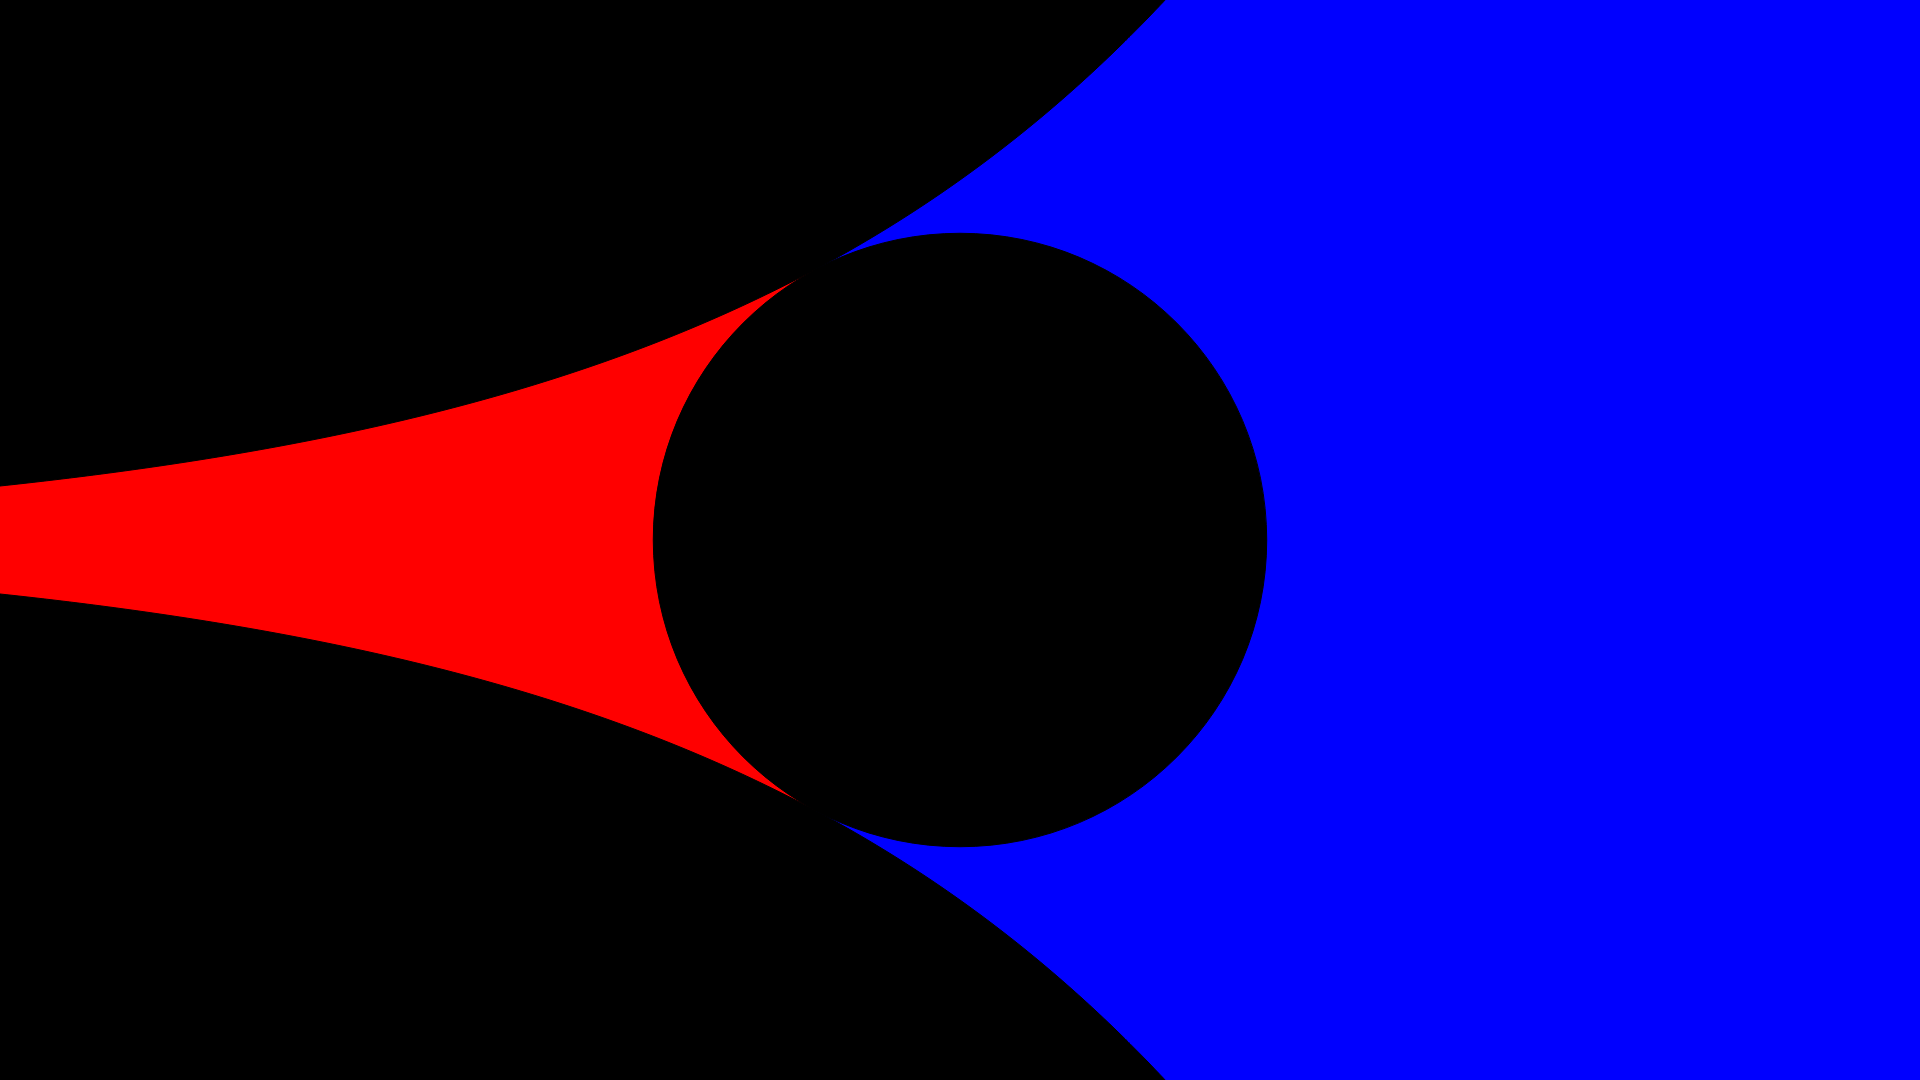
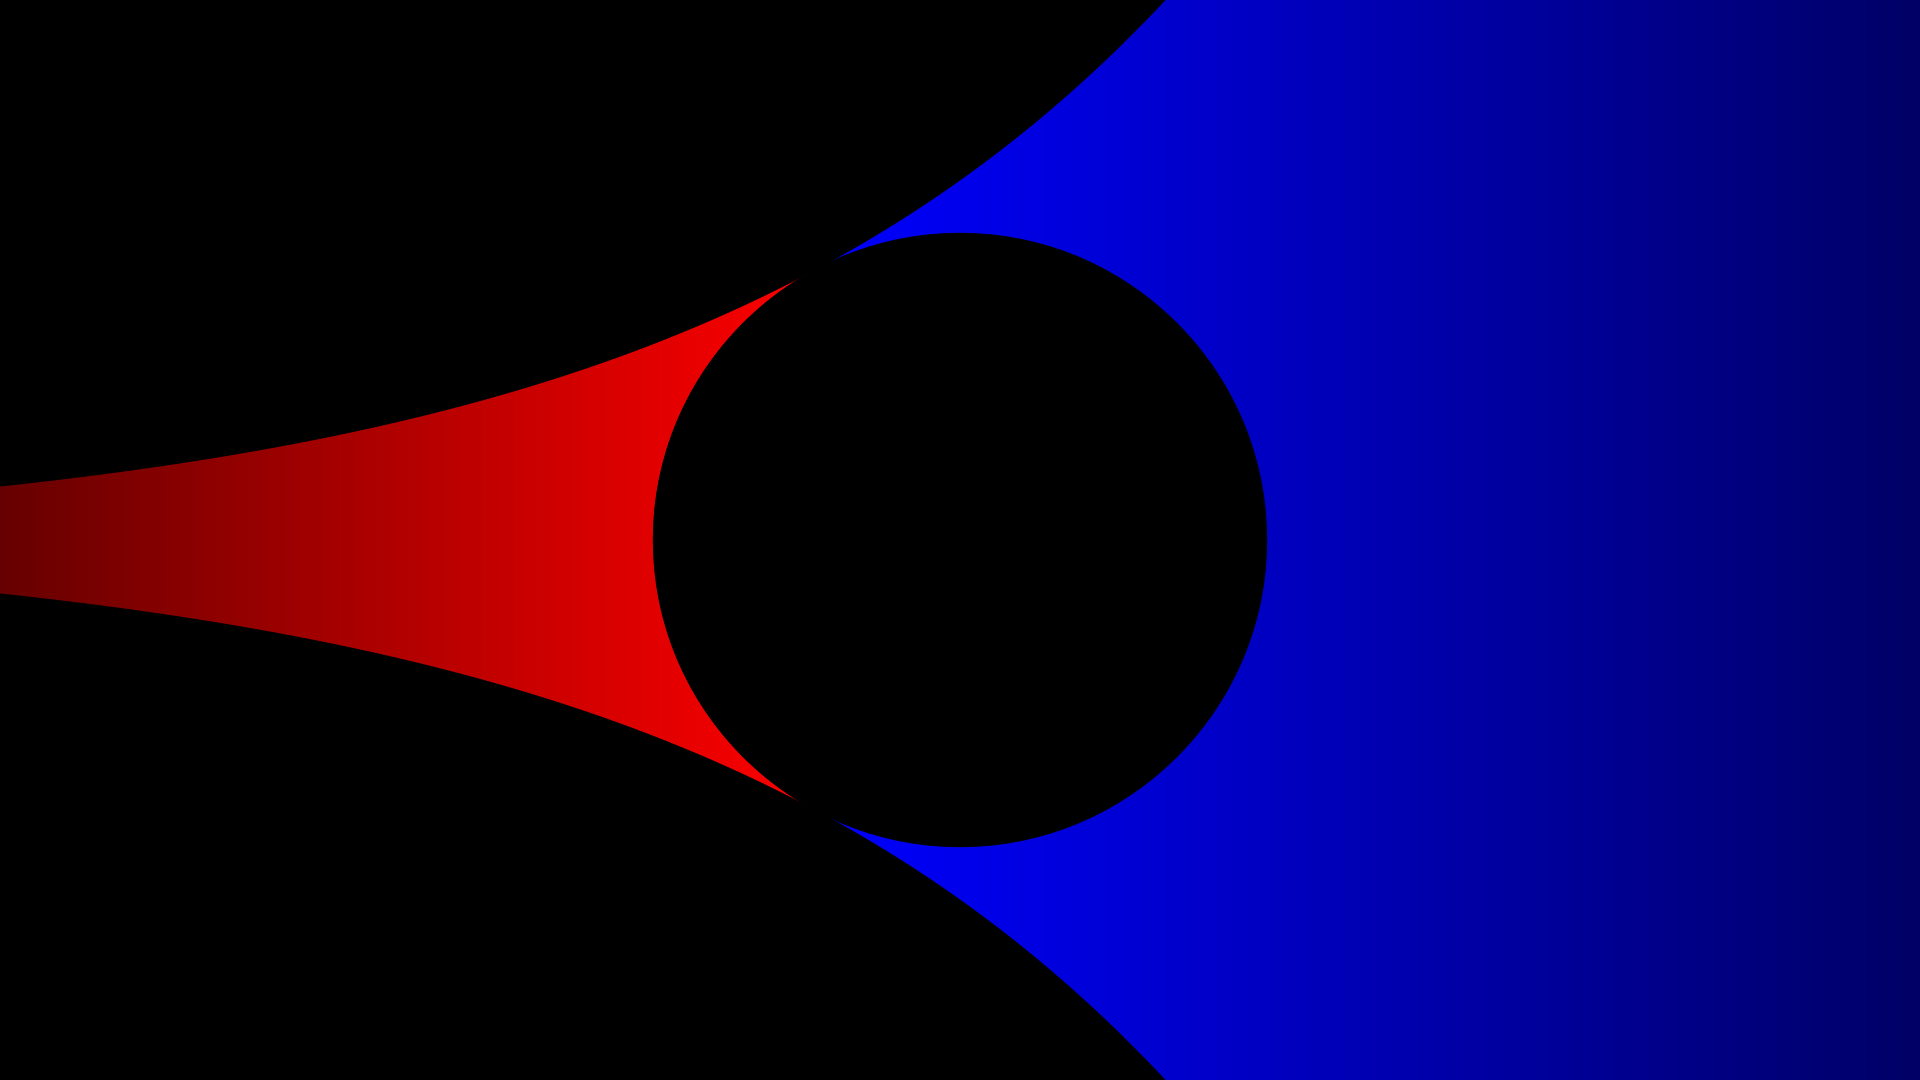
added gradient to exp-circle

diff --git a/projects/exp-circle/main.js b/projects/exp-circle/main.js
@@ -33,13 +33,28 @@ function draw() {
     const a = A(b);
     const r = R(a, b);
 
-    ctx.fillStyle = '#f00';
-    ctx.fillRect(0, 0, w, h);
-    ctx.fillStyle = '#00f';
-    ctx.fillRect(w/2 + a * scale, 0, w, h);
+    ctx.shadowColor = '#000';
+
+    {
+	const x = w/2 + a*scale;
+
+	let red = ctx.createLinearGradient(x, 0, 0, 0);
+	red.addColorStop(1, '#600');
+	red.addColorStop(0, '#f00');
+	ctx.fillStyle = red;
+	ctx.fillRect(0, 0, w, h);
+
+	let blue = ctx.createLinearGradient(x, 0, w, 0);
+	blue.addColorStop(1, '#006');
+	blue.addColorStop(0, '#00f');
+	ctx.fillStyle = blue;
+	ctx.fillRect(x, 0, w, h);
+    }
 
     ctx.lineWidth = 1;
     ctx.fillStyle = ctx.strokeStyle = '#000';
+
+    ctx.shadowBlur = 0;
 
 
 
